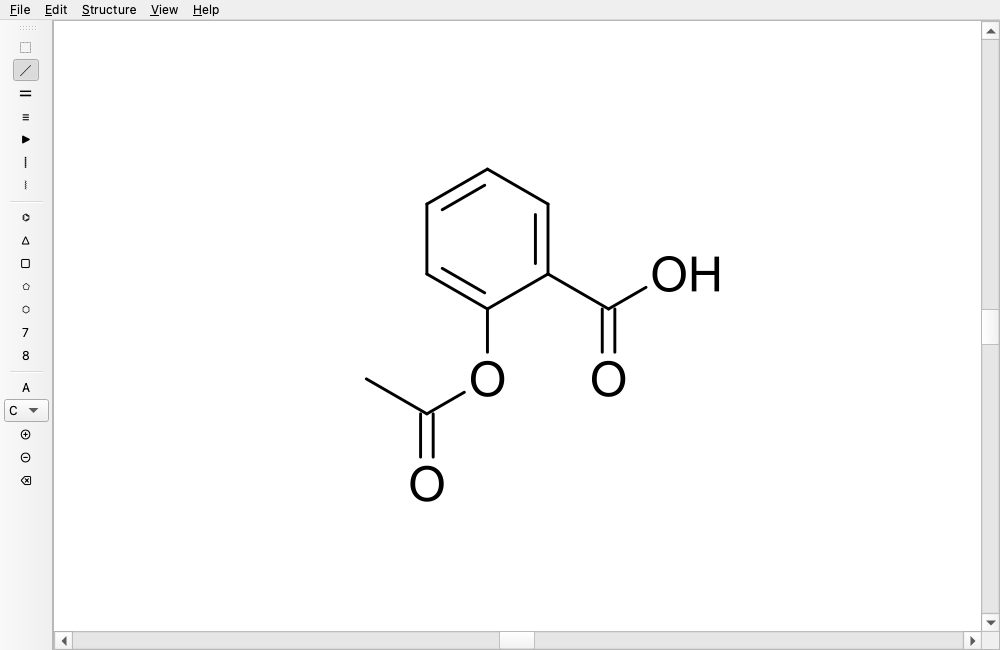
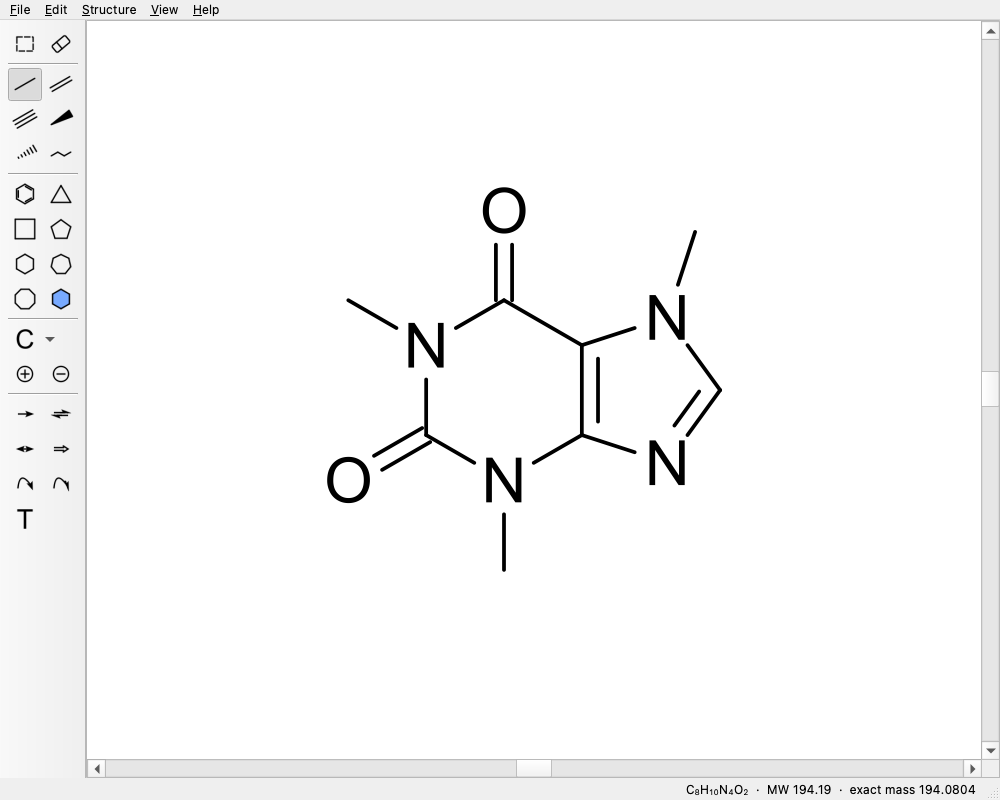
Use caffeine instead of aspirin for examples, tests and the README screenshot
The screenshot also shows the new tool palette.

diff --git a/tests/test_core.cpp b/tests/test_core.cpp
@@ -123,15 +123,15 @@ TEST_CASE("clean lays out each fragment in place and keeps arrows and text") {
 }
 
 TEST_CASE("formula, weights and InChI") {
-    auto aspirin = chem::fromSmiles("CC(=O)Oc1ccccc1C(=O)O");
-    REQUIRE(aspirin);
-    auto p = chem::properties(*aspirin);
+    auto caffeine = chem::fromSmiles("CN1C=NC2=C1C(=O)N(C(=O)N2C)C");
+    REQUIRE(caffeine);
+    auto p = chem::properties(*caffeine);
     REQUIRE(p);
-    CHECK(p->formula == "C9H8O4");
-    CHECK(std::abs(p->mw - 180.159) < 0.01);
-    CHECK(std::abs(p->exactMass - 180.0423) < 0.001);
-    CHECK(chem::toInchiKey(*aspirin) == "BSYNRYMUTXBXSQ-UHFFFAOYSA-N");
-    CHECK(chem::toInchi(*aspirin).rfind("InChI=1S/C9H8O4/", 0) == 0);
+    CHECK(p->formula == "C8H10N4O2");
+    CHECK(std::abs(p->mw - 194.194) < 0.01);
+    CHECK(std::abs(p->exactMass - 194.0804) < 0.001);
+    CHECK(chem::toInchiKey(*caffeine) == "RYYVLZVUVIJVGH-UHFFFAOYSA-N");
+    CHECK(chem::toInchi(*caffeine).rfind("InChI=1S/C8H10N4O2/", 0) == 0);
     CHECK_FALSE(chem::properties(Document{}));
 }
 

diff --git a/tests/test_canvas.cpp b/tests/test_canvas.cpp
@@ -127,7 +127,7 @@ TEST_CASE("main window screenshot") {
     MainWindow w;
     w.resize(1000, 800);
     w.show();
-    REQUIRE(w.openFile(QString(PENZENE_TEST_DATA) + "/aspirin.mol"));
+    REQUIRE(w.openFile(QString(PENZENE_TEST_DATA) + "/caffeine.mol"));
     QApplication::processEvents();
     if (auto out = qgetenv("PENZENE_SCREENSHOT"); !out.isEmpty()) w.grab().save(out);
 }

diff --git a/README.md b/README.md
@@ -8,7 +8,7 @@ Runs on macOS, Linux and Windows. Built with C++20, Qt 6 and [RDKit](https://www
 > Status: early development. See the [roadmap](https://github.com/users/JamesOBrien2/projects) and
 > [issues](https://github.com/JamesOBrien2/penzene/issues).
 
-<p align="center"><img src="docs/screenshot.png" width="720" alt="Penzene main window showing aspirin"></p>
+<p align="center"><img src="docs/screenshot.png" width="720" alt="Penzene main window showing caffeine"></p>
 
 ## Features
 
@@ -30,8 +30,8 @@ Runs on macOS, Linux and Windows. Built with C++20, Qt 6 and [RDKit](https://www
 Render without opening a window, for scripts, notebooks and batch figures:
 
 ```sh
-penzene --render aspirin.mol aspirin.svg                    # one file
-penzene --render "CC(=O)Oc1ccccc1C(=O)O" aspirin.pdf        # a SMILES string
+penzene --render caffeine.mol caffeine.svg                  # one file
+penzene --render "CN1C=NC2=C1C(=O)N(C(=O)N2C)C" caffeine.pdf   # a SMILES string
 penzene --render library.sdf hits.smi --out figs --format png --drawing-style RSC --clean
 ```
 
